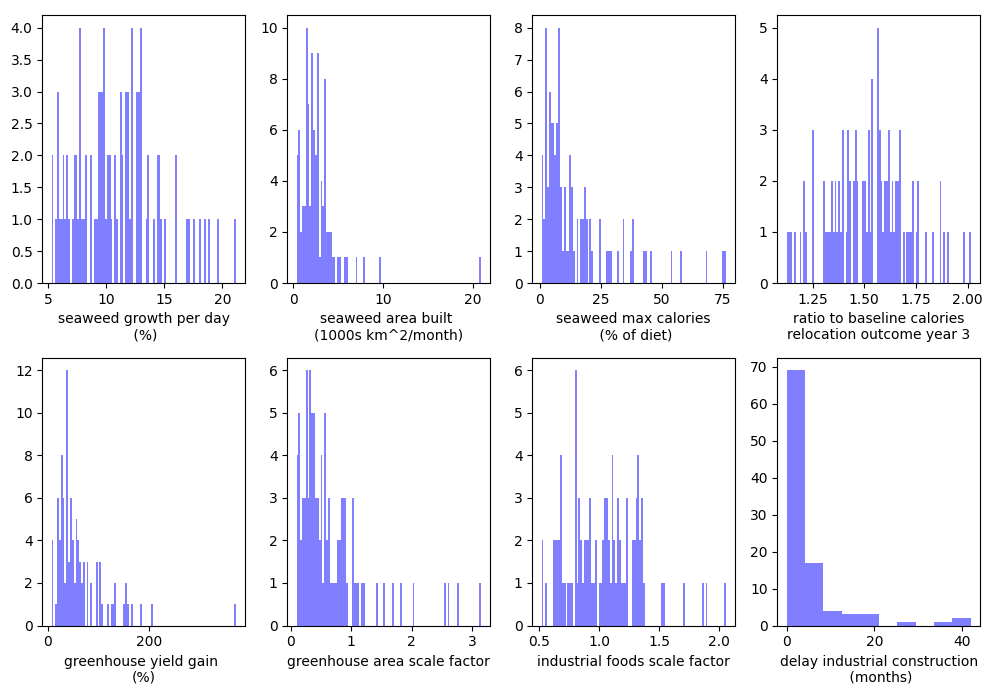
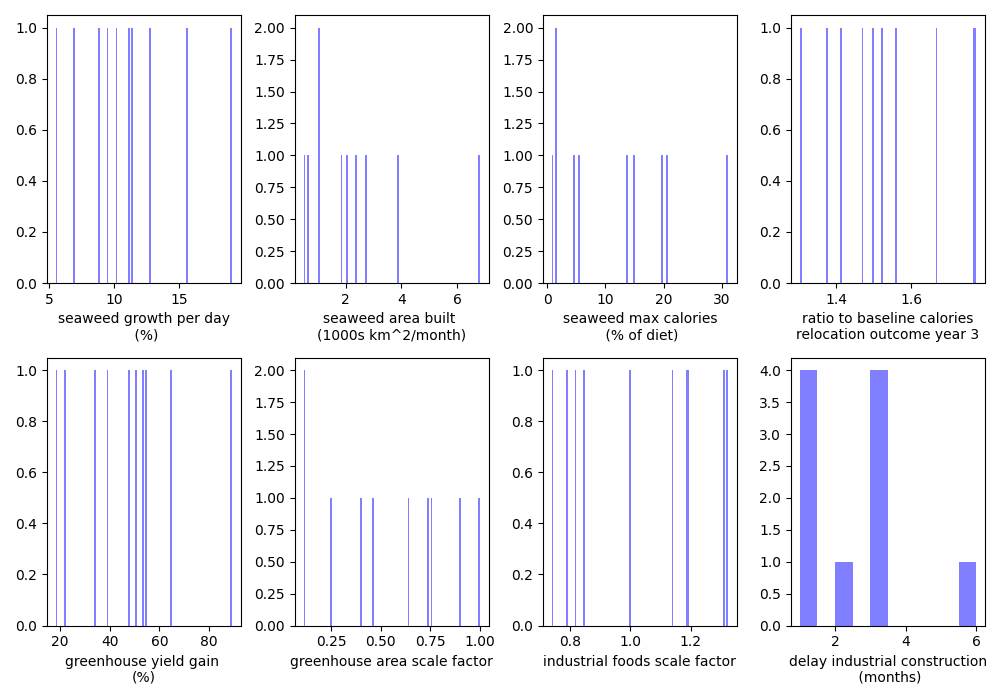
fixed the monte carlo, now it runs

diff --git a/src/scenarios/monte_carlo.py b/src/scenarios/monte_carlo.py
@@ -298,7 +298,6 @@ class MonteCarlo:
         inputs_to_optimizer["DELAY"]["BIOFUEL_SHUTOFF_MONTHS"] = variables['BIOFUEL_SHUTOFF_MONTHS_delay'][i]
 
         constants = {}
-        constants['CHECK_CONSTRAINTS'] = False
         constants['inputs'] = inputs_to_optimizer
         constants_for_optimizer = copy.deepcopy(constants)
         constants_loader = Parameters()
@@ -307,26 +306,28 @@ class MonteCarlo:
 
         failed_to_optimize = False  # until proven otherwise
         optimizer = Optimizer()
-        # try:
-        [time_months, time_months_middle, analysis] = \
-            optimizer.optimize(
-                single_valued_constants,
-                multi_valued_constants
-            )
+        try:
+            single_valued_constants['CHECK_CONSTRAINTS'] = False
+            [time_months, time_months_middle, analysis] = \
+                optimizer.optimize(
+                    single_valued_constants,
+                    multi_valued_constants
+                )
+            print(analysis.percent_people_fed)
 
-        # except AssertionError as msg:
-        #     print(msg)
-        #     failed_to_optimize = True
-        #     print("Warning: Optimization failed. Continuing.")
-        #     # quit()
-        #     return (np.nan, i)
-        # except Exception as ex:
-        #     template = "An exception of type {0} occurred. Arguments:\n{1!r}"
-        #     message = template.format(type(ex).__name__, ex.args)
-        #     print(message)
-        #     failed_to_optimize = True
-        #     print("Warning: Optimization failed. Continuing.")
-        #     return (np.nan, i)
+        except AssertionError as msg:
+            print(msg)
+            failed_to_optimize = True
+            print("Warning: Optimization failed. Continuing.")
+            # quit()
+            return (np.nan, i)
+        except Exception as ex:
+            template = "An exception of type {0} occurred. Arguments:\n{1!r}"
+            message = template.format(type(ex).__name__, ex.args)
+            print(message)
+            failed_to_optimize = True
+            print("Warning: Optimization failed. Continuing.")
+            return (np.nan, i)
 
         PLOT_EACH_SCENARIO = False
         if(PLOT_EACH_SCENARIO):
@@ -504,4 +505,4 @@ class MonteCarlo:
 
 
 if __name__ == '__main__':
-    MonteCarlo.run_all_scenarios(10,100,False,False)
+    MonteCarlo.run_all_scenarios(10,10,False,False)

diff --git a/src/optimizer/optimizer.py b/src/optimizer/optimizer.py
@@ -201,7 +201,7 @@ class Optimizer:
         )
 
         analysis.analyze_results(model, self.time_months_middle)
-
+        print(analysis.percent_people_fed)
         return [self.time_months, self.time_months_middle, analysis]
 
     def add_seaweed_to_model(self, model, variables, month):
